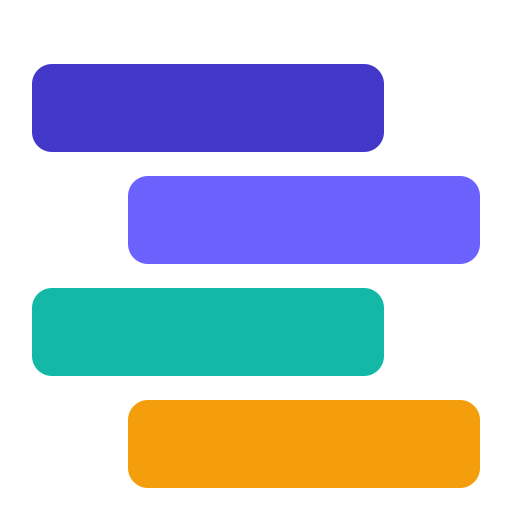
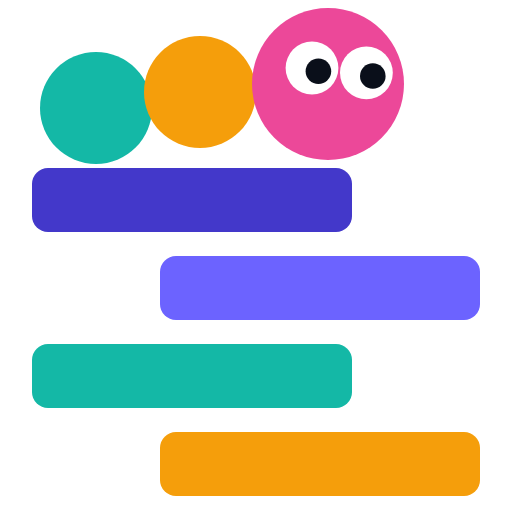
co

diff --git a/_layouts/default.html b/_layouts/default.html
@@ -72,12 +72,7 @@
     <div class="container nav">
       <div class="logo-group">
         <a href="/" class="brand-mark" title="Okalai AI" aria-label="Okalai AI home">
-          <svg viewBox="0 0 64 64" xmlns="http://www.w3.org/2000/svg">
-            <rect x="4"  y="8"  width="44" height="11" rx="2.5" fill="#4338ca"/>
-            <rect x="16" y="22" width="44" height="11" rx="2.5" fill="#6c63ff"/>
-            <rect x="4"  y="36" width="44" height="11" rx="2.5" fill="#14b8a6"/>
-            <rect x="16" y="50" width="44" height="11" rx="2.5" fill="#f59e0b"/>
-          </svg>
+          <svg viewBox="0 -12 64 64" xmlns="http://www.w3.org/2000/svg"><rect x="4" y="9" width="40" height="8" rx="2" fill="#4338ca"/><rect x="20" y="20" width="40" height="8" rx="2" fill="#6c63ff"/><rect x="4" y="31" width="40" height="8" rx="2" fill="#14b8a6"/><rect x="20" y="42" width="40" height="8" rx="2" fill="#f59e0b"/><circle cx="12" cy="1.5" r="7" fill="#14b8a6"/><circle cx="25" cy="-0.5" r="7" fill="#f59e0b"/><circle cx="41" cy="-1.5" r="9.5" fill="#ec4899"/><circle cx="39" cy="-3.5" r="3.3" fill="#fff"/><circle cx="45.8" cy="-2.9" r="3.3" fill="#fff"/><circle cx="39.8" cy="-3.1" r="1.6" fill="#0a0f1a"/><circle cx="46.6" cy="-2.5" r="1.6" fill="#0a0f1a"/></svg>
         </a>
         <a href="/" class="logo">Okala<span class="logo-i">&#305;<span class="logo-i-mark"><svg viewBox="0 0 64 64" xmlns="http://www.w3.org/2000/svg" aria-hidden="true"><rect x="4" y="8" width="44" height="11" rx="2.5" fill="#4338ca"/><rect x="16" y="22" width="44" height="11" rx="2.5" fill="#6c63ff"/><rect x="4" y="36" width="44" height="11" rx="2.5" fill="#14b8a6"/><rect x="16" y="50" width="44" height="11" rx="2.5" fill="#f59e0b"/></svg></span></span> AI<span class="logo-dot">.</span></a>
       </div>
@@ -105,12 +100,7 @@
       <div class="footer-left">
         <div class="logo-group">
           <a href="/" class="brand-mark" title="Okalai AI" aria-label="Okalai AI home">
-            <svg viewBox="0 0 64 64" xmlns="http://www.w3.org/2000/svg">
-              <rect x="4"  y="8"  width="44" height="11" rx="2.5" fill="#4338ca"/>
-              <rect x="16" y="22" width="44" height="11" rx="2.5" fill="#6c63ff"/>
-              <rect x="4"  y="36" width="44" height="11" rx="2.5" fill="#14b8a6"/>
-              <rect x="16" y="50" width="44" height="11" rx="2.5" fill="#f59e0b"/>
-            </svg>
+            <svg viewBox="0 -12 64 64" xmlns="http://www.w3.org/2000/svg"><rect x="4" y="9" width="40" height="8" rx="2" fill="#4338ca"/><rect x="20" y="20" width="40" height="8" rx="2" fill="#6c63ff"/><rect x="4" y="31" width="40" height="8" rx="2" fill="#14b8a6"/><rect x="20" y="42" width="40" height="8" rx="2" fill="#f59e0b"/><circle cx="12" cy="1.5" r="7" fill="#14b8a6"/><circle cx="25" cy="-0.5" r="7" fill="#f59e0b"/><circle cx="41" cy="-1.5" r="9.5" fill="#ec4899"/><circle cx="39" cy="-3.5" r="3.3" fill="#fff"/><circle cx="45.8" cy="-2.9" r="3.3" fill="#fff"/><circle cx="39.8" cy="-3.1" r="1.6" fill="#0a0f1a"/><circle cx="46.6" cy="-2.5" r="1.6" fill="#0a0f1a"/></svg>
           </a>
           <span class="footer-logo">Okala<span class="logo-i">&#305;<span class="logo-i-mark"><svg viewBox="0 0 64 64" xmlns="http://www.w3.org/2000/svg" aria-hidden="true"><rect x="4" y="8" width="44" height="11" rx="2.5" fill="#4338ca"/><rect x="16" y="22" width="44" height="11" rx="2.5" fill="#6c63ff"/><rect x="4" y="36" width="44" height="11" rx="2.5" fill="#14b8a6"/><rect x="16" y="50" width="44" height="11" rx="2.5" fill="#f59e0b"/></svg></span></span> AI<span class="logo-dot">.</span></span>
         </div>

diff --git a/assets/css/style.css b/assets/css/style.css
@@ -54,7 +54,7 @@ a {
 
 .logo-group { display: flex; align-items: center; gap: 0.6rem; }
 .brand-mark { display: flex; align-items: center; flex-shrink: 0; }
-.brand-mark svg { width: 30px; height: 30px; filter: drop-shadow(0 1px 2px rgba(0,0,0,0.25)); }
+.brand-mark svg { width: 36px; height: 36px; filter: drop-shadow(0 1px 2px rgba(0,0,0,0.25)); }
 
 .logo {
   font-family: 'Source Serif 4', 'Source Serif Pro', Georgia, serif;
@@ -179,6 +179,25 @@ a {
   transform: rotate(-45deg) translate(5px, -5px);
 }
 
+/* Hero caterpillar: segments ripple like it's crawling */
+.caterpillar .seg {
+  animation: crawl 1.6s ease-in-out infinite;
+}
+.caterpillar .seg:nth-child(2) { animation-delay: 0.12s; }
+.caterpillar .seg:nth-child(3) { animation-delay: 0.24s; }
+.caterpillar .seg:nth-child(4) { animation-delay: 0.36s; }
+.caterpillar .seg:nth-child(5) { animation-delay: 0.48s; }
+.caterpillar .seg:nth-child(6) { animation-delay: 0.6s; }
+
+@keyframes crawl {
+  0%, 100% { transform: translateY(0); }
+  50%      { transform: translateY(-5px); }
+}
+
+@media (prefers-reduced-motion: reduce) {
+  .caterpillar .seg { animation: none; }
+}
+
 /* === Hero === */
 .hero {
   position: relative;
@@ -202,7 +221,7 @@ a {
 }
 
 .hero-image {
-  flex: 0 0 180px;
+  flex: 0 0 240px;
   position: relative;
   z-index: 1;
 }
@@ -1167,7 +1186,7 @@ a {
   .hero-image {
     flex: none;
     width: 100%;
-    max-width: 140px;
+    max-width: 180px;
   }
 
   .hero h1 {

diff --git a/index.md b/index.md
@@ -52,6 +52,19 @@ title: Home
         </defs>
         <g transform="rotate(-2 150 87)">
           <rect x="50" y="66" width="200" height="42" rx="10" fill="url(#gradIndigo)" filter="url(#glowIndigo)"/>
+          <g class="caterpillar">
+            <g class="seg"><circle cx="92" cy="54" r="11" fill="#6c63ff"/><circle cx="88.5" cy="50" r="2.6" fill="#fff" opacity="0.8"/></g>
+            <g class="seg"><circle cx="114" cy="54" r="11" fill="#14b8a6"/><circle cx="110.5" cy="50" r="2.6" fill="#fff" opacity="0.8"/></g>
+            <g class="seg"><circle cx="136" cy="54" r="11" fill="#f59e0b"/><circle cx="132.5" cy="50" r="2.6" fill="#fff" opacity="0.8"/></g>
+            <g class="seg"><circle cx="158" cy="54" r="11" fill="#6c63ff"/><circle cx="154.5" cy="50" r="2.6" fill="#fff" opacity="0.8"/></g>
+            <g class="seg"><circle cx="180" cy="54" r="11" fill="#14b8a6"/><circle cx="176.5" cy="50" r="2.6" fill="#fff" opacity="0.8"/></g>
+            <g class="seg">
+              <circle cx="206" cy="49" r="15" fill="#ec4899"/>
+              <circle cx="202" cy="44" r="5" fill="#fff"/><circle cx="213" cy="45" r="5" fill="#fff"/>
+              <circle cx="203.5" cy="45" r="2.4" fill="#0a0f1a"/><circle cx="214.5" cy="46" r="2.4" fill="#0a0f1a"/>
+              <path d="M200 57 Q 206 61 212 57" fill="none" stroke="#0a0f1a" stroke-width="1.8" stroke-linecap="round"/>
+            </g>
+          </g>
         </g>
         <g transform="rotate(1.5 170 149)">
           <rect x="70" y="128" width="200" height="42" rx="10" fill="url(#gradPurple)" filter="url(#glowPurple)"/>
